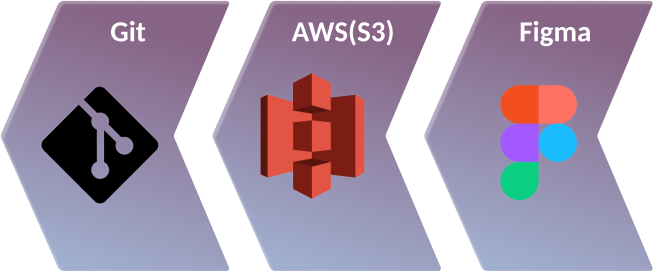
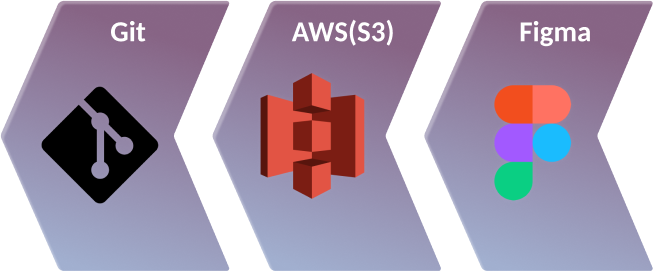
skills의 others와 frameworks의 이미지 수정

Changed region(s): [[0.7339, 0.2952, 0.8869, 0.738], [0.7339, 0.3542, 0.7645, 0.4133]]

diff --git a/src/components/Skills/Skills.tsx b/src/components/Skills/Skills.tsx
@@ -197,7 +197,7 @@ const Others = styled.div`
   }
 
   @media all and (max-width: 767px) {
-    transform: translate(0, -75px);
+    transform: translate(0, -80px);
     width: 325px;
     height: 221px;
 
